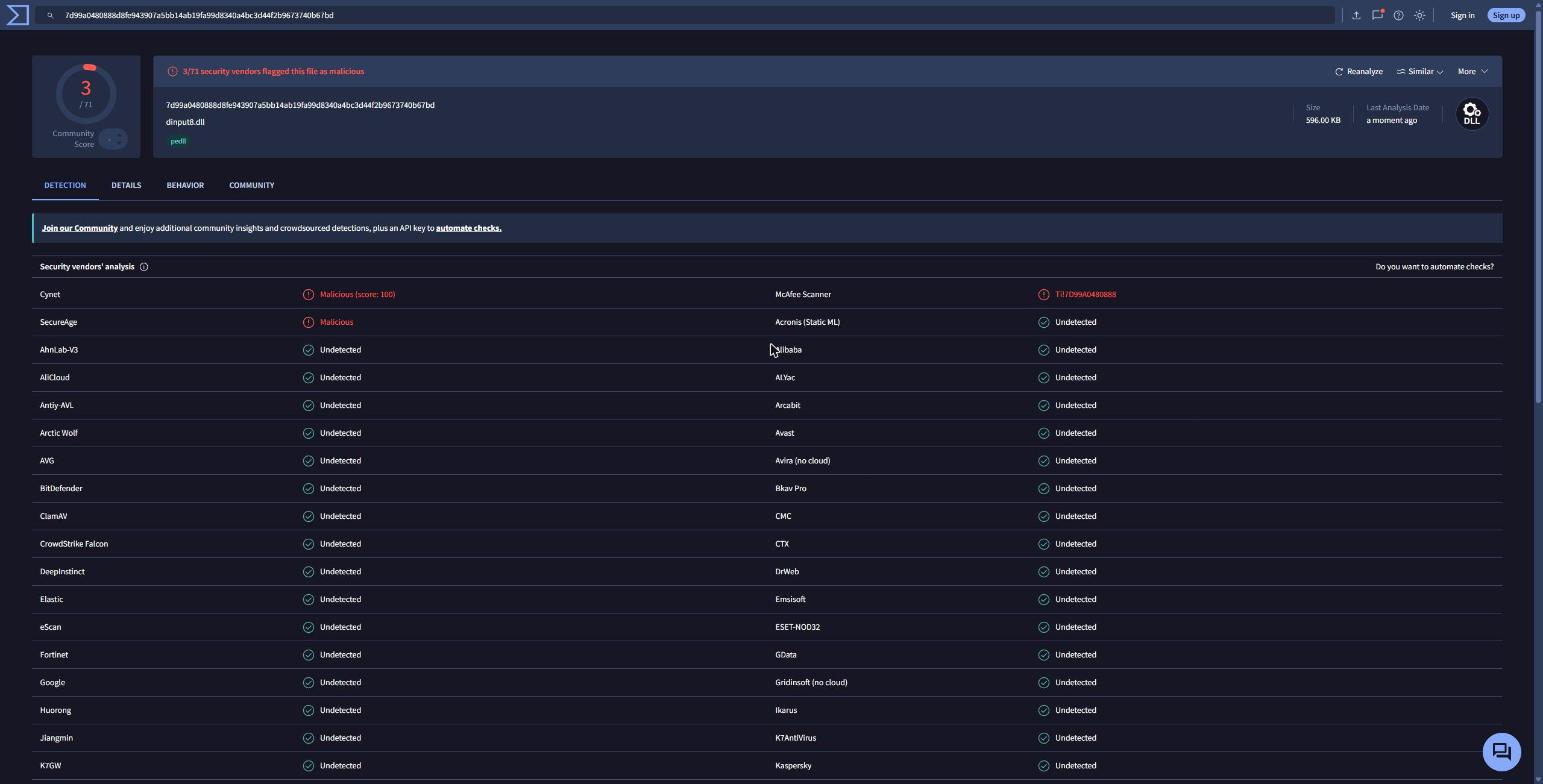
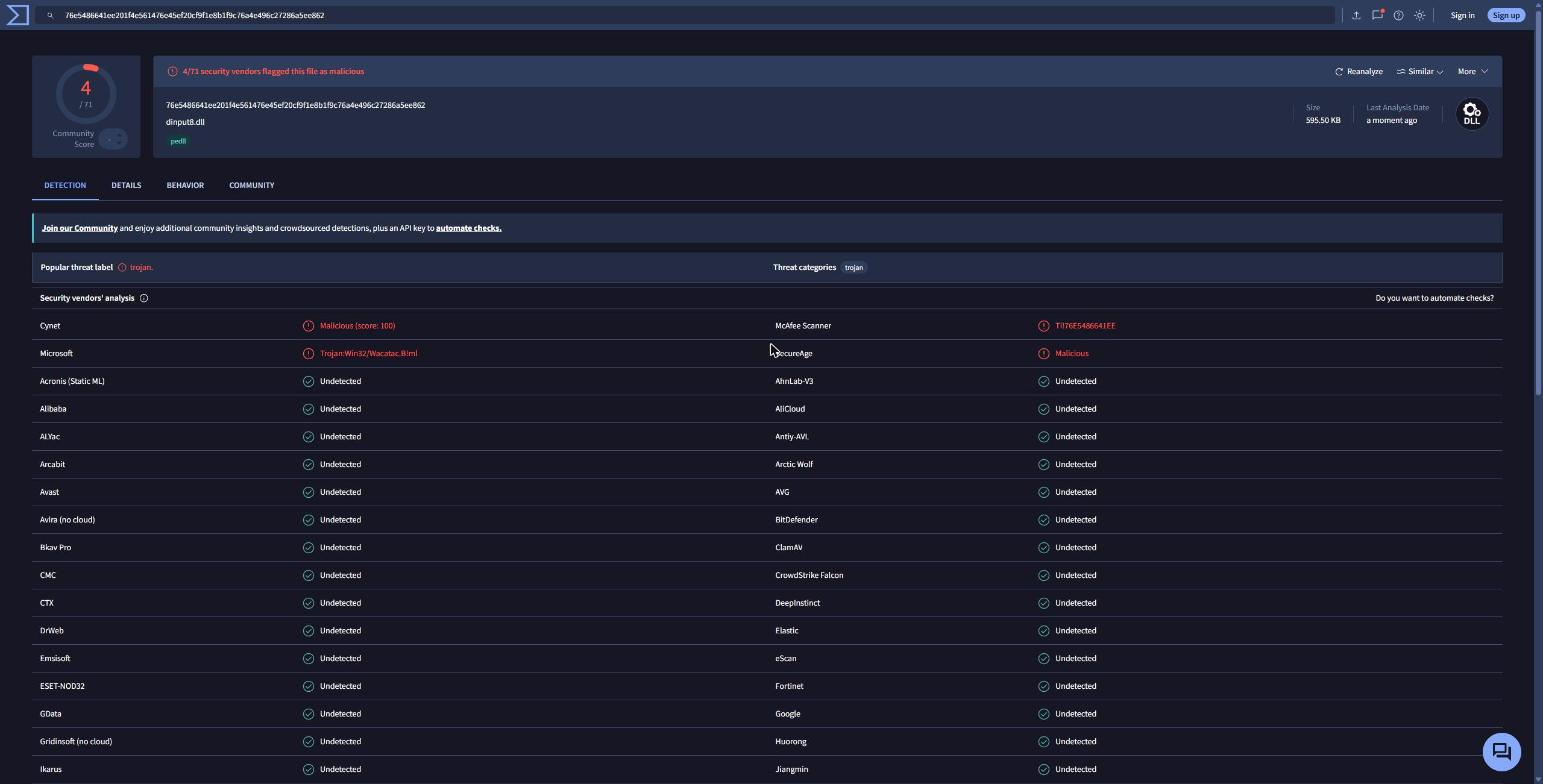
Versão 0.1.0: morte de zumbi sem Kill, pacote versionado e VirusTotal

diff --git a/src/game/zombies.cpp b/src/game/zombies.cpp
@@ -642,29 +642,22 @@ void updateHost(const Config& cfg, bool inWorld, const engine::Vec3& self, bool 
                               !readable ? "sem ator" : a[0x17A9] ? "sem maquina de estados" : "vida 0");
                 continue;
             }
-            // Golpe que não mata: SetHealth nativo (vtable +0x5C) no mesmo ator conferido acima,
-            // sem passar pelo Lua. O Lua só entra para matar (Kill) e para a reação.
-            if (health - hit.damage > 0) {
-                using SetHealth_t = void(__thiscall*)(void*, float);
-                void* const* vt = *reinterpret_cast<void* const* const*>(actor);
-                log::info("zombies: golpe do cliente (%s, %.0f) no zumbi %u: vida %.0f -> %.0f (nativo, flag %d)",
-                          hit.kind ? "tiro" : "corpo a corpo", hit.damage, hit.zombieId, health,
-                          health - hit.damage, a[0x17A9]);
-                reinterpret_cast<SetHealth_t>(vt[engine::vt::kActor_SetHealth / 4])(actor, health - hit.damage);
-                char react[64];
-                snprintf(react, sizeof(react), "SodCoop.ZHitReact(%u)", hit.zombieId);
-                engine::executeLua(react, "sodcoop_zreact");
-                continue;
-            }
+            // SetHealth nativo (vtable +0x5C) no mesmo ator conferido acima, sem passar pelo Lua.
+            // Golpe que mata também: o Kill do Lua fechou o host duas vezes (assert 0x0138C980, em
+            // 2026-11-04 22:47 e 2026-11-05 00:23, os dois em zumbis conduzidos pelo mod), mesmo com
+            // a conferência acima passando um instante antes. Vida 0 direto não passa pelo Kill.
+            using SetHealth_t = void(__thiscall*)(void*, float);
+            void* const* vt = *reinterpret_cast<void* const* const*>(actor);
+            const float after = health - hit.damage > 0 ? health - hit.damage : 0.0f;
+            log::info("zombies: golpe do cliente (%s, %.0f) no zumbi %u: vida %.0f -> %.0f (nativo, flag %d)",
+                      hit.kind ? "tiro" : "corpo a corpo", hit.damage, hit.zombieId, health, after, a[0x17A9]);
+            reinterpret_cast<SetHealth_t>(vt[engine::vt::kActor_SetHealth / 4])(actor, after);
+            char react[64];
+            snprintf(react, sizeof(react), after > 0 ? "SodCoop.ZHitReact(%u)" : "SodCoop.zc[%u] = nil",
+                     hit.zombieId);
+            engine::executeLua(react, "sodcoop_zreact");
+            continue;
         }
-        char expr[96];
-        snprintf(expr, sizeof(expr), "SodCoop.ZDamage(%u, %.1f)", hit.zombieId, hit.damage);
-        // Antes de aplicar: se o jogo fechar dentro do ZDamage, o log mostra em qual zumbi.
-        log::info("zombies: aplicando golpe do cliente no zumbi %u", hit.zombieId);
-        std::string result;
-        puppet::readLuaText(expr, result);
-        log::info("zombies: golpe do cliente (%s, %.0f) no zumbi %u: %s", hit.kind ? "tiro" : "corpo a corpo",
-                  hit.damage, hit.zombieId, result.c_str());
     }
     updateChase(cfg, now, self, otherValid, other);
     if (now < next) return;

diff --git a/docs/VIRUSTOTAL.md b/docs/VIRUSTOTAL.md
@@ -4,15 +4,15 @@
 
 ## English
 
-I scanned the files of the current package (`sodcoop-20261104.zip`, rebuilt on 2026-11-04 at 23:00 with the automatic save transfer) on VirusTotal. The result **isn't zero**: the mod was flagged by **3 of 71** antivirus engines and the setup window by **5 of 70**. I'm publishing it as it is, with the links and screenshots, so you can check it yourself and decide.
+I scanned the files of release **v0.1.0** (`sodcoop-v0.1.0.zip`, 2026-11-05) on VirusTotal. The result **isn't zero**: the mod was flagged by **4 of 71** antivirus engines and the setup window by **5 of 70**. I'm publishing it as it is, with the links and screenshots, so you can check it yourself and decide.
 
 ### Results
 
 | File | SHA-256 | Flagged by | VirusTotal |
 |---|---|---|---|
[6 lines of base64/hex data omitted]
 
 To check that your copy is the same file, open PowerShell in the folder and compare the output with the table:
 
@@ -20,11 +20,11 @@ To check that your copy is the same file, open PowerShell in the folder and comp
 Get-FileHash dinput8.dll, SoDCoop.exe -Algorithm SHA256
 ```
 
-A newer build has different hashes. This page only covers the files above. The previous build of the same day (without the automatic save transfer) had 4 alerts on each file; its reports stay on VirusTotal under the hashes `881695d3…` (dll) and `f46ec462…` (exe).
+A newer build has different hashes. This page only covers the files above. Earlier test builds had between 3 and 5 alerts per file, from the same kind of engines.
 
 ### Screenshots
 
-**dinput8.dll: 3/71**
+**dinput8.dll: 4/71**
 
 ![VirusTotal result for dinput8.dll](virustotal/virustotal_dinput8.jpg)
 
@@ -48,7 +48,7 @@ What the mod **doesn't** do: it doesn't change any file of the game or of Window
 
 ### If Windows Defender deletes the file
 
-Microsoft flagged `SoDCoop.exe` in this build (and `dinput8.dll` in the previous one), so on some PCs Windows Defender may quarantine one of them. Without `dinput8.dll` the mod doesn't load; without `SoDCoop.exe` you can still edit `sodcoop.ini` by hand. If that happens and you trust these files, after comparing the hashes above:
+Microsoft flagged both files in this release, so on some PCs Windows Defender may quarantine one of them. Without `dinput8.dll` the mod doesn't load; without `SoDCoop.exe` you can still edit `sodcoop.ini` by hand. If that happens and you trust these files, after comparing the hashes above:
 
 1. Open **Windows Security → Virus & threat protection → Protection history** and restore the file.
 2. Optionally, add an exclusion for the file itself (`dinput8.dll` in the game folder) under **Manage settings → Exclusions**.
@@ -63,15 +63,15 @@ The mod is built from this repository's source code (`src/`, `launcher/`) with `
 
 ## Português
 
-Analisei no VirusTotal os arquivos do pacote atual (`sodcoop-20261104.zip`, gerado de novo em 04/11/2026 às 23h, já com o envio automático do save). O resultado **não foi zero**: o mod foi marcado por **3 de 71** antivírus, e a janela de configuração por **5 de 70**. Publico como está, com os links e os prints, para você conferir e decidir.
+Analisei no VirusTotal os arquivos da versão **0.1.0** (`sodcoop-v0.1.0.zip`, 05/11/2026). O resultado **não foi zero**: o mod foi marcado por **4 de 71** antivírus, e a janela de configuração por **5 de 70**. Publico como está, com os links e os prints, para você conferir e decidir.
 
 ### Resultado
 
 | Arquivo | SHA-256 | Marcado por | VirusTotal |
 |---|---|---|---|
[6 lines of base64/hex data omitted]
 
 Para conferir se a sua cópia é o mesmo arquivo, abra o PowerShell na pasta e compare com a tabela:
 
@@ -79,7 +79,7 @@ Para conferir se a sua cópia é o mesmo arquivo, abra o PowerShell na pasta e c
 Get-FileHash dinput8.dll, SoDCoop.exe -Algorithm SHA256
 ```
 
-Uma versão mais nova tem outros hashes. Esta página vale só para os arquivos acima. A versão anterior do mesmo dia (sem o envio automático do save) teve 4 alertas em cada arquivo; os relatórios dela continuam no VirusTotal, pelos hashes `881695d3…` (dll) e `f46ec462…` (exe). Os prints estão na seção em inglês.
+Uma versão mais nova tem outros hashes. Esta página vale só para os arquivos acima. As versões de teste anteriores tiveram entre 3 e 5 alertas por arquivo, dos mesmos tipos de antivírus. Os prints estão na seção em inglês.
 
 ### Por que os alertas aparecem
 
@@ -97,7 +97,7 @@ O que o mod **não** faz: não altera nenhum arquivo do jogo nem do Windows, nã
 
 ### Se o Windows Defender apagar o arquivo
 
-A Microsoft marcou o `SoDCoop.exe` nesta versão (e o `dinput8.dll` na anterior), então em alguns PCs o Windows Defender pode pôr um deles em quarentena. Sem o `dinput8.dll`, o mod não carrega; sem o `SoDCoop.exe`, ainda dá para editar o `sodcoop.ini` à mão. Se acontecer e você confiar nos arquivos, depois de comparar os hashes acima:
+A Microsoft marcou os dois arquivos nesta versão, então em alguns PCs o Windows Defender pode pôr um deles em quarentena. Sem o `dinput8.dll`, o mod não carrega; sem o `SoDCoop.exe`, ainda dá para editar o `sodcoop.ini` à mão. Se acontecer e você confiar nos arquivos, depois de comparar os hashes acima:
 
 1. Abra **Segurança do Windows → Proteção contra vírus e ameaças → Histórico de proteção** e restaure o arquivo.
 2. Se quiser, adicione uma exclusão só para o arquivo (`dinput8.dll` na pasta do jogo) em **Gerenciar configurações → Exclusões**.

diff --git a/docs/PROGRESSO.md b/docs/PROGRESSO.md
@@ -247,7 +247,7 @@ Limitações da etapa 1:
 - Troca de sobrevivente: comandos de console do jogo `fm_nextMember` / `fm_prevMember` (registrados em `0x015DF630`). A entidade do jogador continua a mesma ("Dude", id 0x7777); o jogo troca as partes e os dados.
 - Um sobrevivente é um esqueleto (`characters/male/human/skeleton/skeleton.chr`) com anexos de pele: `body`, `skin`, `legs`, `head`, `hair`, `pack` (cada um um `.chr`).
 - Pacote `Look` (protocolo v16), dos dois lados a cada 2 s: `base=<esqueleto>;anexo=<arquivo.chr>;...`. Quem recebe recria o fantoche só com o esqueleto e prende as partes com a função do próprio jogo que monta os zumbis (`0x0131BCC0`, cdecl `(ICharacterInstance*, nome, arquivo, clonarMaterial)`).
-- **Não tirar partes de um personagem em uso**: a primeira versão removia os anexos do fantoche com `DestroyAttachment` e prendia os novos; o host fechou na hora (acesso a nulo em `0x00B2D805`, numa thread de animação; dump `USER/StateOfDecay_LUASPC_2026-11-02_20-18-09.dmp`, log `sodcoop_host_crash_look.log`). Agora uma aparência nova recria o fantoche do zero.
+- **Não tirar partes de um personagem em uso**: a primeira versão removia os anexos do fantoche com `DestroyAttachment` e prendia os novos; o host fechou na hora (acesso a nulo em `0x00B2D805`, numa thread de animação; dump `USER/StateOfDecay_<PC>_2026-11-02_20-18-09.dmp`, log `sodcoop_host_crash_look.log`). Agora uma aparência nova recria o fantoche do zero.
 - Teste: os dois fantoches montados com as 6 partes reais, sem falha; `fm_nextMember` no client → o host recriou o fantoche com a nova aparência em < 1 s. Confirmado pelo usuário por imagem (boné, camiseta, mochila e jeans iguais nas duas janelas).
 
 Limitações da etapa 3:
@@ -393,6 +393,12 @@ Pendências:
 - **UPnP (`src/net/upnp.cpp`):** o host com `transport=udp`, escutando fora de `127.0.0.1`, pede ao roteador o encaminhamento da porta UDP pelo `natupnp.dll` do Windows (COM `IUPnPNAT` → `IStaticPortMappingCollection::Add`; as interfaces foram declaradas no código, porque o llvm-mingw não traz o `natupnp.h`). Roda numa thread própria, registra no log o IP local e o IP público informado pelo roteador e avisa quando esse IP é privado ou de CGNAT (`100.64.0.0/10`): de fora, ninguém chega, e o caminho é a Steam. Tira o encaminhamento ao fechar. `[net] upnp=0` desliga. No PC de testes, o roteador **não respondeu ao UPnP** (desligado nele ou sem descoberta de rede); a abertura em si não foi testada.
 - **SoDCoop.exe (`launcher/`, `build_launcher.ps1`):** janela Win32 que fica na pasta do jogo. Escolhe host ou client e Steam ou IP, mostra o SteamID64 da conta logada (registro `HKCU\Software\Valve\Steam\ActiveProcess\ActiveUser` + 76561197960265728) com botão de copiar, confere o SteamID64 do amigo, testa a porta por UPnP (com o mesmo `upnp.cpp`), grava o `sodcoop.ini` e abre o jogo (`steam://rungameid/329430`). Fundo opcional: `SoDCoop_fundo.jpg`/`.png` ao lado do exe, carregado pelo WIC e escurecido para as letras brancas ficarem legíveis (a capa do jogo usada nos testes fica só na cópia local; `.gitignore`). Aprovado pelo usuário ("Ficou bom"). Entra no pacote do `package.ps1`. Idiomas: português e inglês (tabela de textos em `launcher.cpp`); na primeira vez segue o idioma do Windows (português → pt, outros → en), e a caixa Idioma/Language troca na hora e grava `[launcher] language` no `sodcoop.ini`. Testado pelo usuário ("Funcionou").
 
+### Teste com um amigo pela internet e versão 0.1.0 (2026-11-05)
+
+- **Primeiro teste com duas contas Steam diferentes, pela internet:** o host, no Brasil, e um amigo em Bangladesh conectaram pela Steam P2P (`transport=steam`). O save novo do Breakdown foi para o amigo pela rede, e os dois jogaram: combate, carros (cada um de passageiro no carro do outro) e zumbis. Conexão estável, cerca de 215 pacotes a cada 10 s. O retorno do amigo fica para depois.
+- **Host fechou ao matar zumbi (00:23:27):** o tiro do client matou 6 zumbis sem problema, e o 7º fechou o host no assert de `0x0138C980` (`ExitProcess(1)`). O zumbi era conduzido pelo mod (tinha acabado de golpear o client), e a conferência de `+0x17A9` e da vida tinha passado. É o mesmo fechamento de 2026-11-04 22:47 (`sodcoop_host_crash16_sethealth_zdamage.log`), também logo depois de "aplicando golpe do cliente". **Correção (não testada numa partida real):** o golpe que mata deixa de passar pelo `Kill` do Lua e zera a vida pelo `SetHealth` nativo (vtable `+0x5C`), o mesmo dos golpes que não matam. O zumbi pode sumir em vez de cair com a animação de morte.
+- **Câmera ao dirigir:** o host achou que a câmera aproxima ao dirigir. Nos quadros capturados, ela coincide com o chute de porta (`Vehicle_car_door_smash`), que é do próprio jogo. A outra hipótese, a câmera desviando do fantoche do amigo sentado no carro, não foi conferida.
+- **Versão 0.1.0:** `package.ps1 -Version 0.1.0` gera `build\release\sodcoop-v0.1.0.zip`. VirusTotal: `dinput8.dll` 4/71 e `SoDCoop.exe` 5/70 (`docs/VIRUSTOTAL.md`).
 ### Save do host enviado ao client pela rede (2026-11-04) ✅
 
 - **Antes:** o host mandava `Sandbox*.ulsave` e `UserStats*.cfg` ao amigo, que copiava à mão, e de novo sempre que o host jogava sozinho.

diff --git a/docs/AMBIENTE_DE_TESTES.md b/docs/AMBIENTE_DE_TESTES.md
@@ -64,7 +64,7 @@ Zips originais em `tools\downloads\`.
 
 Correções de ambiente (2026-11-01):
[1 lines of base64/hex data omitted]
-- Processos iniciados a partir do app Claude (empacotado como MSIX) veem `AppData\Roaming` **redirecionado** para `AppData\Local\Packages\Claude_…\LocalCache\Roaming`. Isso faz o caminho canônico diferir do absoluto, e o OSGi/Felix do Ghidra aborta com "The data file must be inside the data dir". Para contornar, `tools\ghidra\ghidra_12.2_PUBLIC\support\launch.properties` ganhou uma linha `VMARGS=-Dapplication.settingsdir=C:/Users/luanl/sodcoop_ghidra`. Essa pasta guarda só configurações e cache do Ghidra e pode ser apagada.
+- Processos iniciados a partir do app Claude (empacotado como MSIX) veem `AppData\Roaming` **redirecionado** para `AppData\Local\Packages\Claude_…\LocalCache\Roaming`. Isso faz o caminho canônico diferir do absoluto, e o OSGi/Felix do Ghidra aborta com "The data file must be inside the data dir". Para contornar, `tools\ghidra\ghidra_12.2_PUBLIC\support\launch.properties` ganhou uma linha `VMARGS=-Dapplication.settingsdir=C:/Users/<usuario>/sodcoop_ghidra`. Essa pasta guarda só configurações e cache do Ghidra e pode ser apagada.
 - Execução headless (projeto em `analysis\ghidra_project`, scripts em `analysis\ghidra_scripts`, saídas em `analysis\out`, logs em `analysis\logs`):
   ```
   set JAVA_HOME=<projeto>\tools\jdk\jdk-25.0.5+8

diff --git a/README.md b/README.md
@@ -78,7 +78,7 @@ Detalhes técnicos e histórico em [docs/PROGRESSO.md](docs/PROGRESSO.md).
 
 ## 🛡 Antivírus (VirusTotal)
 
-Os arquivos do pacote atual foram analisados no VirusTotal: **3 de 71 antivírus** marcaram o mod (dinput8.dll) e **5 de 70** a janela (SoDCoop.exe), todos com alertas automáticos (aprendizado de máquina e reputação), nenhum apontando vírus conhecido. Hashes, links, prints e o motivo dos alertas estão em [docs/VIRUSTOTAL.md](docs/VIRUSTOTAL.md) (em inglês e português).
+Os arquivos da versão 0.1.0 foram analisados no VirusTotal: **4 de 71 antivírus** marcaram o mod (`dinput8.dll`) e **5 de 70** a janela (`SoDCoop.exe`), todos com alertas automáticos (aprendizado de máquina e reputação), nenhum apontando vírus conhecido. Hashes, links, prints e o motivo dos alertas estão em [docs/VIRUSTOTAL.md](docs/VIRUSTOTAL.md) (em inglês e português).
 
 ## 🖥 Mod à parte: resolução 2560×1440
 

diff --git a/release/README.md b/release/README.md
@@ -1,4 +1,4 @@
-# State of Decay: Year-One — Co-op Mod (prototype)
+# State of Decay: Year-One — Co-op Mod (version 0.1.0, prototype)
 
 Co-op for **two players** in the **Breakdown** mode of State of Decay: Year-One Survival Edition (Steam, version **845221**).
 
@@ -80,6 +80,7 @@ With `transport=udp`, the connection is direct:
 - Facility actions (crafting, cooking, training) only run for the player who started them.
 - The community (morale, injuries, survivors) is simulated separately on each PC.
 - If the host dies, the game's normal rules apply to the host's save.
+- The host's game may close when the client kills a zombie. Version 0.1.0 includes a fix for this that hasn't been tested in a real session yet. If it happens, send the host's `sodcoop_default.log`.
 - It only works with version **845221** of the game on Steam. With any other version, the mod turns itself off and writes the reason in the log.
 
 ---

diff --git a/release/LEIA-ME.md b/release/LEIA-ME.md
@@ -1,4 +1,4 @@
-# State of Decay: Year-One — Co-op Mod (protótipo)
+# State of Decay: Year-One — Co-op Mod (versão 0.1.0, protótipo)
 
 Co-op para **duas pessoas** no modo **Breakdown** do State of Decay: Year-One Survival Edition (Steam, versão **845221**).
 
@@ -80,6 +80,7 @@ Com `transport=udp`, a conexão é direta:
 - As ações das instalações (fabricar, cozinhar, treinar) rodam só em quem as começou.
 - A comunidade (moral, ferimentos, sobreviventes) é simulada separadamente em cada PC.
 - Se o host morrer, vale a regra normal do jogo para o save dele.
+- O jogo do host pode fechar quando o client mata um zumbi. A versão 0.1.0 traz uma correção para isso que ainda não foi testada numa partida real. Se acontecer, mande o `sodcoop_default.log` do host.
 - Só funciona na versão **845221** do jogo na Steam. Em outra versão, o mod se desliga sozinho e registra o motivo no log.
 
 ---
